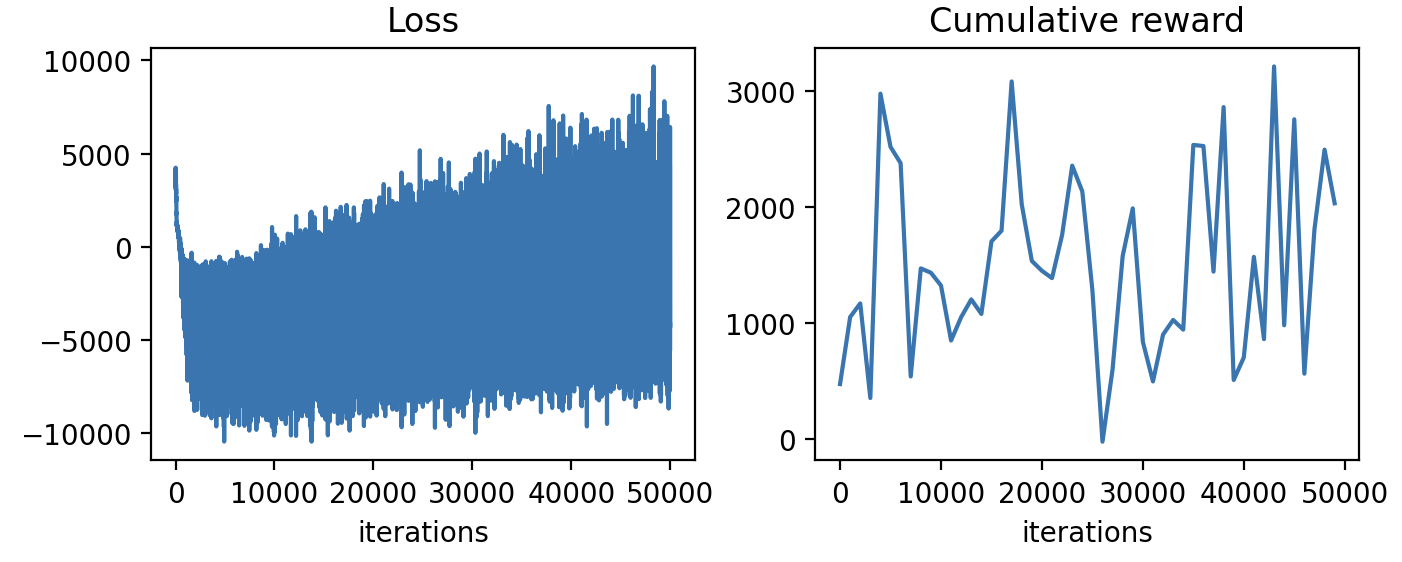
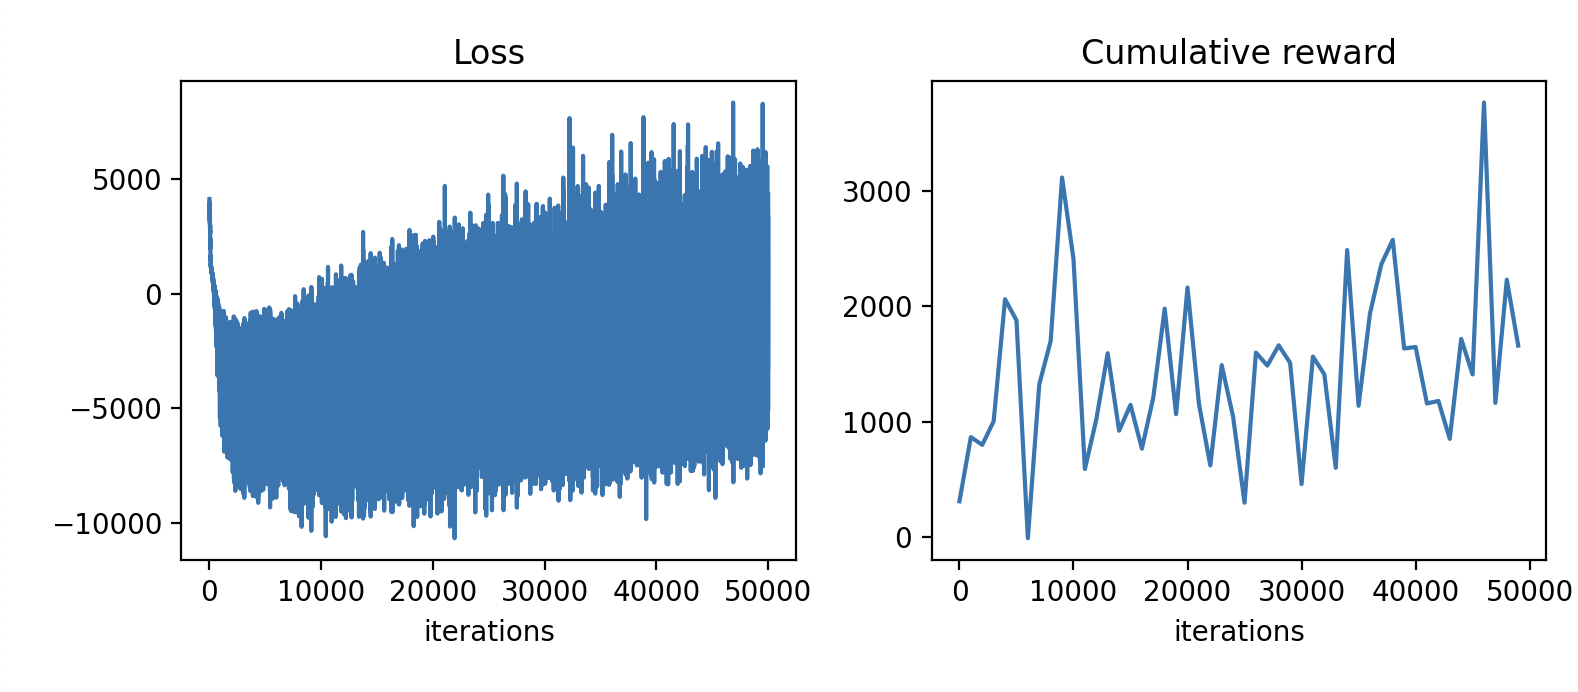
make tutorial deterministic

Changed region(s): [[0.0307, 0.0, 1.0, 0.968]]

diff --git a/docs/tutorials/using_datasets/IQL_torchrl.py b/docs/tutorials/using_datasets/IQL_torchrl.py
@@ -45,8 +45,9 @@ import gymnasium
 import torch
 import torchrl
 
-torch.manual_seed(0)
-np.random.seed(0)
+seed = 42
+torch.manual_seed(seed)
+np.random.seed(seed)
 warnings.simplefilter("ignore")
 
 # %%
@@ -89,6 +90,7 @@ from torchrl.envs import DoubleToFloat, TransformedEnv
 # %%
 env_id = "AdroitHandPen-v1"
 example_env = GymEnv(env_id, from_pixels=True, pixels_only=False)
+example_env.set_seed(seed)
 
 # %%
 # ``GymEnv`` provides the usual methods such as ``env.step()`` and ``env.reset()``. However, instead of returning a tuple of step/reset data, they return a ``TensorDict``. A tensordict is essentially a dictionary of tensors whose first axis (the batch dimension) has the same size, and share some other properties like the device they are on. The tensordict returned has fields for each type of step data (e.g. ``observations``, ``actions``, ``rewards``):
@@ -129,7 +131,7 @@ print(f"Cumulative reward: {tensordict['next', 'reward'].sum():.2f}")
 # %%
 # .. code-block:: text
 #
-#     Cumulative reward: -31.10
+#     Cumulative reward: 884.10
 #
 
 # %%
@@ -155,6 +157,7 @@ device = torch.device("cuda" if torch.cuda.is_available() else "cpu")
 
 base_env = GymEnv(env_id, device=device)
 env = TransformedEnv(base_env, DoubleToFloat())
+env.set_seed(seed)
 
 # %%
 # Building a replay buffer
@@ -406,7 +409,7 @@ def evaluate_policy(env, policy, num_eval_episodes=20):
 # %%
 from tqdm.auto import tqdm
 
-iterations = 50_000
+iterations = 10_000 # Set to 50_000 to reproduce the results below
 eval_interval = 1_000
 
 loss_logs = []
@@ -450,6 +453,7 @@ axes[1].plot(eval_interval * np.arange(len(eval_reward_logs)), eval_reward_logs)
 axes[1].set_title("Cumulative reward")
 axes[1].set_xlabel("iterations")
 fig.tight_layout()
+plt.show()
 
 # %%
 # .. image:: /_static/img/tutorials/IQL_torchrl_training_graphs.png
@@ -476,7 +480,7 @@ print(f"Cumulative reward (averaged over 100 episodes): {final_score:.2f}")
 # %%
 # .. code-block:: text
 #
-#     Cumulative reward (averaged over 100 episodes): 1952.30
+#     Cumulative reward (averaged over 100 episodes): 1872.69
 #
 
 # %%
@@ -488,6 +492,7 @@ viewer_env = TransformedEnv(
     GymEnv(env_id, from_pixels=True, pixels_only=False),
     DoubleToFloat()
 )
+viewer_env.set_seed(seed)
 
 tensordict = viewer_env.rollout(max_steps=max_episode_steps, policy=model[0], auto_cast_to_device=True)
 print(f"Cumulative reward: {tensordict['next', 'reward'].sum():.2f}")
@@ -519,4 +524,4 @@ HTML("""
 #    :width: 32%
 #    :alt: Example episode 3 for Adroit Pen environment
 #
-# The performance varies quite a bit from episode to episode, but overall it's decent considering the small number of iterations and a mere 25 demonstrations in the original dataset! To improve performance further, you could try training it for the full 1M iterations, increasing the hidden layer size to 256, and tuning the other hyperparameters, such as the inverse temperature :math:`\beta` and the expectile :math:`\tau`.
+# The performance varies quite a bit from episode to episode, but overall it's decent considering there are only 25 demonstrations in the original dataset! To improve performance, you could try tuning the hyperparameters, such as the inverse temperature :math:`\beta` and the expectile :math:`\tau`, or use a larger dataset such as `pen-expert-v1` which has around 5000 episodes.
